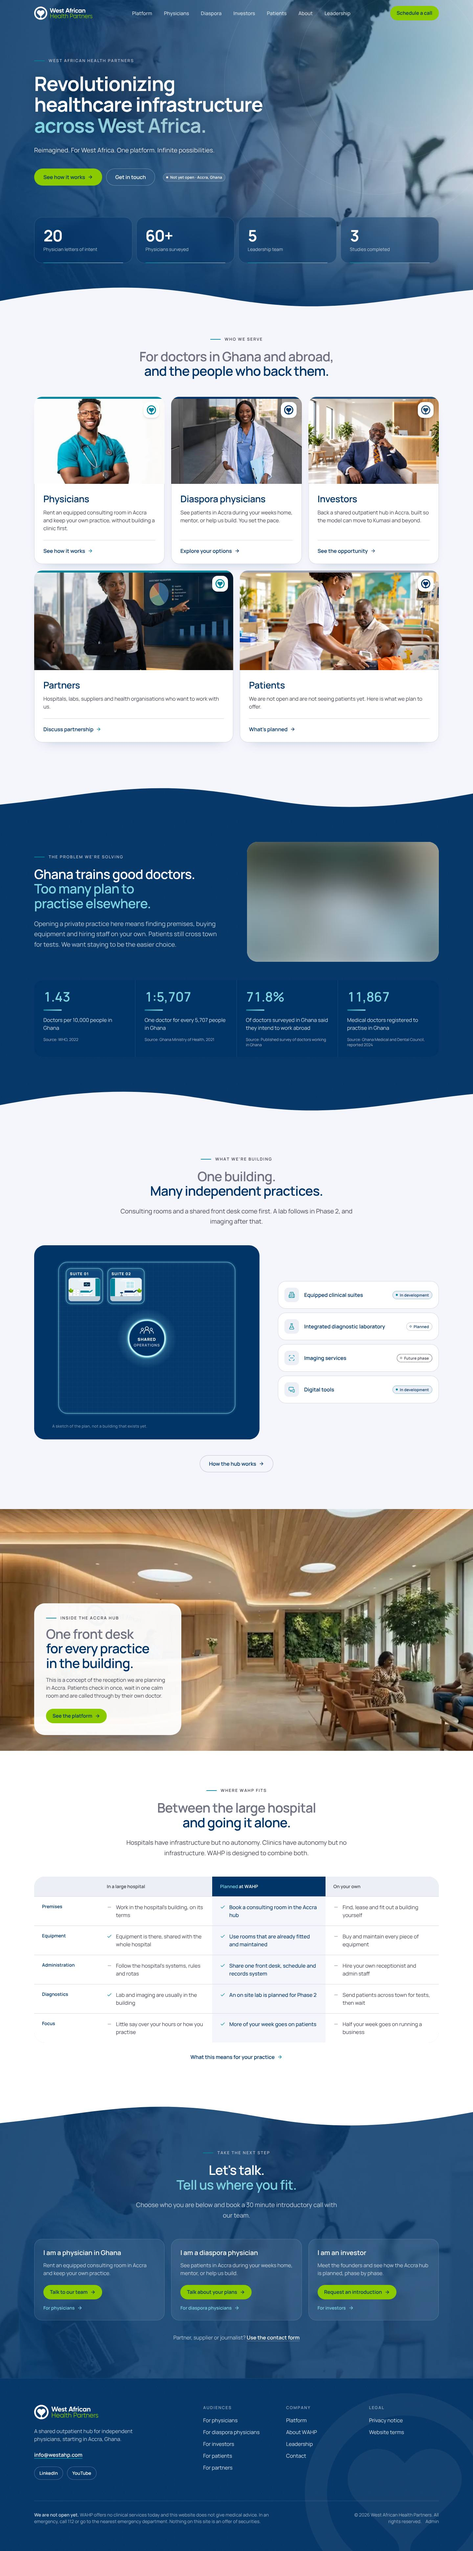
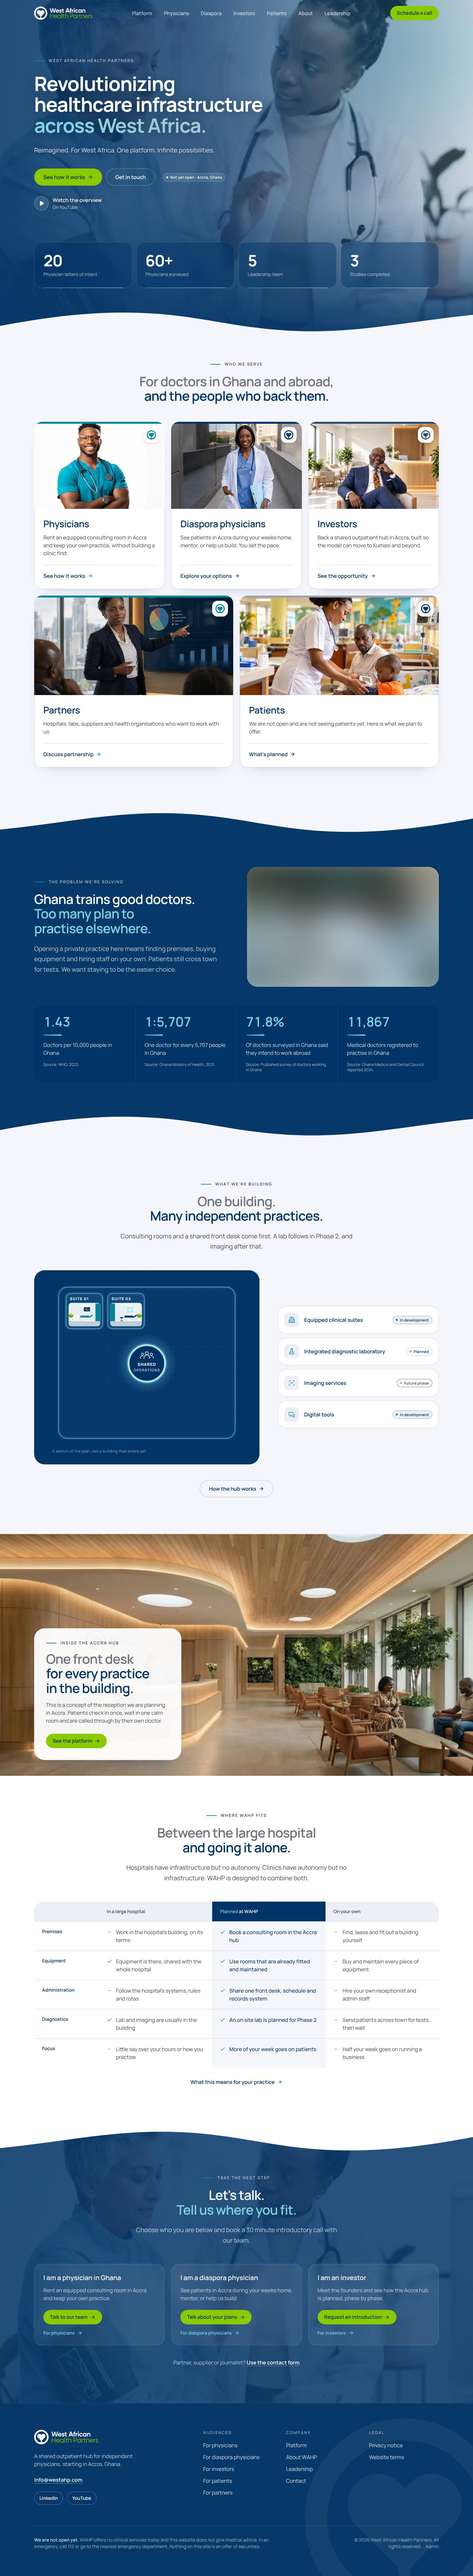
Link the WAHP overview video from the Home hero
"Watch the overview / On YouTube" with a play button under the hero
buttons, opening WAHP's "West African Health Partners Overview" video
in a new tab. A link, not an embed, so no YouTube cookies on the site;
the share link's tracking parameter is left off. Registered as the
overview-video claim. E2E test added.

Claude-Session: https://claude.ai/code/session_01Gg6TP4sXwQchVWe3LbXuH5

diff --git a/src/app/(site)/page.tsx b/src/app/(site)/page.tsx
@@ -1,7 +1,7 @@
 import type { CSSProperties } from "react";
 import type { Metadata } from "next";
 import Link from "next/link";
-import { ArrowRight, Building2, FlaskConical, MonitorSmartphone, ScanLine } from "lucide-react";
+import { ArrowRight, Building2, FlaskConical, MonitorSmartphone, Play, ScanLine } from "lucide-react";
 import { ClinicalFloorSchematic } from "@/components/graphics/clinical-floor-schematic";
 import { HeroRings } from "@/components/graphics/hero-rings";
 import { Wave } from "@/components/graphics/wave";
@@ -17,6 +17,7 @@ import { Eyebrow, Section, SectionIntro, SplitHeading, StageBadge } from "@/comp
 import { approvedClaim } from "@/content/claims";
 import { pageHeaders } from "@/content/editable";
 import { pillars } from "@/content/platform";
+import { site } from "@/content/site";
 
 export const metadata: Metadata = {
   title: { absolute: "West African Health Partners · Shared clinical space for independent doctors in Accra" },
@@ -104,6 +105,27 @@ export default function HomePage() {
                 <StageBadge stage="pre-launch" label={hero.badge} dark />
               </span>
             </div>
+            {site.overviewVideo && (
+              <a
+                href={site.overviewVideo}
+                target="_blank"
+                rel="noopener noreferrer"
+                className="hero-in group mt-8 inline-flex items-center gap-3 rounded-full pr-3 text-white [text-shadow:0_1px_14px_rgba(0,25,51,0.75)]"
+                style={delay(440)}
+              >
+                <span className="flex size-11 shrink-0 items-center justify-center rounded-full bg-white/10 ring-1 ring-white/40 backdrop-blur-sm transition-colors ring-inset group-hover:bg-white/20 group-hover:ring-white">
+                  <Play aria-hidden className="ml-0.5 size-4 fill-current" />
+                </span>
+                <span>
+                  <span className="block font-semibold underline decoration-white/0 underline-offset-4 transition-colors group-hover:decoration-white/60">
+                    Watch the overview
+                  </span>
+                  <span className="block text-sm text-white/80">
+                    On YouTube<span className="sr-only"> (opens in a new tab)</span>
+                  </span>
+                </span>
+              </a>
+            )}
           </div>
 
           {groundwork.length > 0 && (

diff --git a/src/content/claims.ts b/src/content/claims.ts
@@ -153,6 +153,17 @@ export const claims: Claim[] = [
     routes: ["footer"],
   },
   {
+    id: "overview-video",
+    text: "https://www.youtube.com/watch?v=CBGQphpdUyk",
+    source:
+      "Owner, 6 Nov 2026 (shared as youtu.be/CBGQphpdUyk); YouTube lists it as 'West African Health Partners Overview' on the WAHP channel",
+    status: "verified",
+    publicApproved: true,
+    lastVerified: "2026-11-06",
+    routes: ["/"],
+    note: "Linked, not embedded: it opens on YouTube, so no YouTube cookies are set on this site. The tracking parameter from the share link is left off.",
+  },
+  {
     id: "first-claim",
     text: "The first integrated medical co-sharing and diagnostics infrastructure platform in West Africa.",
     source: "Website Clarification Questionnaire #34 (owner-approved wording)",

diff --git a/tests/e2e/site.spec.ts b/tests/e2e/site.spec.ts
@@ -84,3 +84,11 @@ test("loading screen lifts after the page loads, never blocks clicks, and return
   await expect(screen).toHaveAttribute("data-seen-route", "");
   await expect(screen).toBeHidden();
 });
+
+test("home links to the overview video on YouTube in a new tab", async ({ page }) => {
+  await page.goto("/");
+  const link = page.getByRole("link", { name: /Watch the overview/ });
+  await expect(link).toHaveAttribute("href", "https://www.youtube.com/watch?v=CBGQphpdUyk");
+  await expect(link).toHaveAttribute("target", "_blank");
+  await expect(link).toHaveAttribute("rel", /noopener/);
+});

diff --git a/src/content/site.ts b/src/content/site.ts
@@ -12,6 +12,8 @@ export const site = {
   contactEmail: process.env.NEXT_PUBLIC_CONTACT_EMAIL || approvedClaim("contact-email")?.text || null,
   linkedin: approvedClaim("linkedin")?.text ?? null,
   youtube: approvedClaim("youtube")?.text ?? null,
+  /** WAHP overview video on YouTube, linked from the Home hero. */
+  overviewVideo: approvedClaim("overview-video")?.text ?? null,
 };
 
 export type CallTypeId = "physician" | "diaspora" | "investor" | "partner";

diff --git a/docs/IMPLEMENTATION_LOG.md b/docs/IMPLEMENTATION_LOG.md
@@ -311,3 +311,7 @@ Both redrawn as inline SVG after the owner's mockups, so they stay sharp, keep t
 
 - At the owner's request the Diaspora page hero uses the owner's retouched version of the same photo (the doctor putting on her stethoscope): brighter, sharper and cropped to 4:3, which is the hero's own shape. The file came with a thin navy rounded frame drawn into it; 18px was trimmed from each side so only the site's own rounded corners show. Saved over `doctor-stethoscope.webp` (1409×1052, 77 KB), so nothing else changed. Alt text unchanged.
 
+## 6 Nov 2026, overview video link on Home
+
+- At the owner's request the Home hero has a "Watch the overview / On YouTube" link with a play button, under the main buttons. It opens WAHP's "West African Health Partners Overview" video (https://www.youtube.com/watch?v=CBGQphpdUyk, on the WAHP channel) in a new tab. The tracking parameter from the shared link is left off.
+- It is a link, not an embedded player, so YouTube sets no cookies on this site and the privacy notice and CSP are unchanged. Registered as the `overview-video` claim; set to null there and the link disappears.
